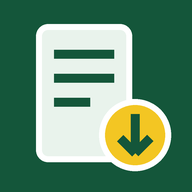
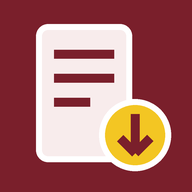
Maroon colour theme
Claude-Session: https://claude.ai/code/session_01WUNYoX9cQFqoFEWwkjiyTj

diff --git a/index.html b/index.html
@@ -5,7 +5,7 @@
 <meta name="viewport" content="width=device-width,initial-scale=1,viewport-fit=cover">
 <title>ต่อรองราคา BOQ</title>
 <meta name="claude:viewport-fit-sides" content="cover">
-<meta name="theme-color" content="#14563a">
+<meta name="theme-color" content="#7a1f2b">
 <link rel="manifest" href="manifest.json">
 <link rel="icon" type="image/png" href="icon-192.png">
 <link rel="apple-touch-icon" href="icon-192.png">
@@ -15,21 +15,21 @@
 <style>
 /* Layout: green government-office header band with tabs, content in a 1240px column; cards for forms, white A4 "paper" for reports */
 :root{
-  --bg:#f2f5f3; --card:#ffffff; --ink:#18291f; --muted:#5f7368; --line:#dbe5df; --soft:#eaf2ed;
-  --brand:#14563a; --brand2:#1f7a50; --brand-ink:#ffffff; --accent:#f3c623; --accent-ink:#3a2f00;
+  --bg:#f6f2f1; --card:#ffffff; --ink:#2a1a1c; --muted:#76615f; --line:#e8dcda; --soft:#f6eaea; --tab-on:#7a1f2b;
+  --brand:#7a1f2b; --brand2:#9a2d3a; --brand-ink:#ffffff; --accent:#f3c623; --accent-ink:#3a2f00;
   --blue:#1b66d1; --danger:#c23b2e; --warn-bg:#fff4cf; --warn-ink:#6d5300; --ok-bg:#e3f4ea; --ok-ink:#17633d; --bad-bg:#fde6e3; --bad-ink:#9d2a1f;
-  --paper:#ffffff; --paper-ink:#000000; --paper-line:#333333; --paper-shade:#e9ece9;
+  --paper:#ffffff; --paper-ink:#000000; --paper-line:#333333; --paper-shade:#ececec;
   --f-head:"Prompt","Sarabun","Leelawadee UI",Tahoma,sans-serif;
   --f-body:"Sarabun","Leelawadee UI","Thonburi",Tahoma,sans-serif;
   --r:12px;
 }
 @media (prefers-color-scheme: dark){:root:not([data-theme="light"]){
-  --bg:#0e1612; --card:#16211b; --ink:#e3ece6; --muted:#97aa9f; --line:#2a3a31; --soft:#1c2c23;
-  --brand:#0f4630; --brand2:#18694a; --accent:#f3c623; --blue:#5b9bf0; --danger:#ef7a6c;
+  --bg:#170f10; --card:#221718; --ink:#efe4e4; --muted:#b39d9d; --line:#3b2a2c; --soft:#2c1d1f; --tab-on:#f2a7b0;
+  --brand:#5e1620; --brand2:#8a2a37; --accent:#f3c623; --blue:#5b9bf0; --danger:#ef7a6c;
   --warn-bg:#3a3110; --warn-ink:#f4dc87; --ok-bg:#163527; --ok-ink:#8fe0b4; --bad-bg:#3d1c18; --bad-ink:#f3a397; color-scheme:dark}}
 :root[data-theme="dark"]{
-  --bg:#0e1612; --card:#16211b; --ink:#e3ece6; --muted:#97aa9f; --line:#2a3a31; --soft:#1c2c23;
-  --brand:#0f4630; --brand2:#18694a; --accent:#f3c623; --blue:#5b9bf0; --danger:#ef7a6c;
+  --bg:#170f10; --card:#221718; --ink:#efe4e4; --muted:#b39d9d; --line:#3b2a2c; --soft:#2c1d1f; --tab-on:#f2a7b0;
+  --brand:#5e1620; --brand2:#8a2a37; --accent:#f3c623; --blue:#5b9bf0; --danger:#ef7a6c;
   --warn-bg:#3a3110; --warn-ink:#f4dc87; --ok-bg:#163527; --ok-ink:#8fe0b4; --bad-bg:#3d1c18; --bad-ink:#f3a397; color-scheme:dark}
 *{box-sizing:border-box}
 html,body{background:var(--bg);color:var(--ink)}
@@ -53,9 +53,9 @@ button,input,select,textarea{font:inherit;color:inherit}
 .tabs::-webkit-scrollbar{display:none}
 .tab{background:transparent;border:0;color:var(--brand-ink);opacity:.86;padding:10px 16px;border-radius:10px 10px 0 0;font-family:var(--f-head);font-size:15px;white-space:nowrap;cursor:pointer;display:flex;gap:7px;align-items:center}
 .tab:hover{opacity:1;background:rgba(255,255,255,.08)}
-.tab.on{background:var(--bg);color:var(--brand);opacity:1;font-weight:600}
-:root[data-theme="dark"] .tab.on{color:var(--ok-ink)}
-@media (prefers-color-scheme: dark){:root:not([data-theme="light"]) .tab.on{color:var(--ok-ink)}}
+.tab.on{background:var(--bg);color:var(--tab-on);opacity:1;font-weight:600}
+
+
 .tab svg{width:17px;height:17px}
 main{padding-block:20px 40px}
 .view[hidden]{display:none}
@@ -66,14 +66,14 @@ main{padding-block:20px 40px}
 .card-b{padding:16px 18px}
 .step{width:28px;height:28px;border-radius:50%;background:var(--brand);color:#fff;display:inline-grid;place-items:center;font-size:14px;flex:none}
 .btn{border:1px solid var(--line);background:var(--card);border-radius:8px;padding:7px 13px;cursor:pointer;display:inline-flex;align-items:center;gap:6px;font-family:var(--f-head);font-size:14px;white-space:nowrap}
-.btn:hover{border-color:var(--brand2)}
+.btn:hover{border-color:var(--tab-on)}
 .btn.pri{background:var(--brand);border-color:var(--brand);color:#fff}
 .btn.blue{background:var(--blue);border-color:var(--blue);color:#fff}
-.btn.ghost-brand{border-color:var(--brand2);color:var(--brand2)}
+.btn.ghost-brand{border-color:var(--tab-on);color:var(--tab-on)}
 .btn.danger{border-color:var(--danger);color:var(--danger)}
 .btn.sm{padding:4px 9px;font-size:13px}
 .btn:focus-visible,.tab:focus-visible,input:focus-visible,select:focus-visible,textarea:focus-visible{outline:2px solid var(--blue);outline-offset:1px}
-.icon-btn{border:1px solid var(--line);background:var(--card);width:32px;height:30px;border-radius:6px;cursor:pointer;display:inline-grid;place-items:center;color:var(--brand2)}
+.icon-btn{border:1px solid var(--line);background:var(--card);width:32px;height:30px;border-radius:6px;cursor:pointer;display:inline-grid;place-items:center;color:var(--tab-on)}
 .icon-btn.del{color:var(--danger)}
 .icon-btn svg{width:16px;height:16px}
 label.f{display:flex;flex-direction:column;gap:4px;font-size:13px;color:var(--muted);min-width:0}
@@ -124,10 +124,10 @@ table.t tfoot td{font-weight:700;border-top:2px solid var(--line)}
 .sumrow{display:flex;justify-content:space-between;gap:10px;padding:7px 0;border-bottom:1px dashed var(--line);font-size:14px}
 .sumrow b{font-variant-numeric:tabular-nums;white-space:nowrap}
 .big-pct{text-align:center;padding:6px 0 10px}
-.big-pct .v{font-family:var(--f-head);font-size:42px;font-weight:600;color:var(--brand2);line-height:1.1}
+.big-pct .v{font-family:var(--f-head);font-size:42px;font-weight:600;color:var(--tab-on);line-height:1.1}
 .calc3{display:grid;grid-template-columns:repeat(3,minmax(0,1fr));gap:14px}
 @media (max-width:900px){.calc3{grid-template-columns:1fr}}
-.calc3 h3{font-size:15px;color:var(--brand2);padding-bottom:8px;border-bottom:1px solid var(--line);margin-bottom:4px}
+.calc3 h3{font-size:15px;color:var(--tab-on);padding-bottom:8px;border-bottom:1px solid var(--line);margin-bottom:4px}
 .calc3 .tot{font-weight:700;border-top:1px solid var(--ink);border-bottom:3px double var(--ink)}
 .checks{list-style:none;padding:0;margin:0;display:grid;gap:8px}
 .checks li{display:flex;gap:9px;align-items:flex-start;font-size:14px}
@@ -146,7 +146,7 @@ table.t tfoot td{font-weight:700;border-top:2px solid var(--line)}
 .modal-bg{position:fixed;inset:0;background:rgba(0,0,0,.45);display:grid;place-items:center;z-index:40;padding:16px}
 .modal{background:var(--card);border-radius:14px;max-width:760px;width:100%;max-height:90vh;overflow:auto;border:1px solid var(--line)}
 .modal .card-b{display:grid;gap:12px}
-.legal h3{font-size:18px;color:var(--brand2);margin-top:16px}
+.legal h3{font-size:18px;color:var(--tab-on);margin-top:16px}
 .legal blockquote{margin:8px 0;border-left:4px solid var(--brand2);padding:4px 14px}
 .legal p{margin:6px 0}
 .flow{display:grid;gap:8px}
@@ -154,7 +154,7 @@ table.t tfoot td{font-weight:700;border-top:2px solid var(--line)}
 .flow .y{background:var(--warn-bg);color:var(--warn-ink)}.flow .g{background:var(--ok-bg);color:var(--ok-ink)}.flow .r{background:var(--bad-bg);color:var(--bad-ink)}
 .switch{display:inline-flex;align-items:center;gap:7px;cursor:pointer;font-size:14px}
 .seg{display:inline-flex;border:1px solid var(--brand2);border-radius:8px;overflow:hidden;flex-wrap:wrap}
-.seg button{border:0;background:var(--card);padding:7px 12px;cursor:pointer;font-family:var(--f-head);font-size:13.5px;color:var(--brand2)}
+.seg button{border:0;background:var(--card);padding:7px 12px;cursor:pointer;font-family:var(--f-head);font-size:13.5px;color:var(--tab-on)}
 .seg button.on{background:var(--brand);color:#fff}
 /* ===== Paper / reports ===== */
 .paper-wrap{overflow-x:auto;padding-block:16px}
@@ -223,7 +223,7 @@ table.t tfoot td{font-weight:700;border-top:2px solid var(--line)}
   <div class="wrap">
     <div class="hdr">
       <div class="logo" aria-hidden="true">
-        <svg width="34" height="34" viewBox="0 0 64 64"><rect x="12" y="6" width="34" height="46" rx="4" fill="#e9f3ec" stroke="#14563a" stroke-width="3"/><path d="M19 18h20M19 26h20M19 34h12" stroke="#14563a" stroke-width="3" stroke-linecap="round"/><circle cx="45" cy="45" r="13" fill="#f3c623" stroke="#14563a" stroke-width="2.5"/><path d="M45 37v14m-5-5 5 5 5-5" stroke="#14563a" stroke-width="3" fill="none" stroke-linecap="round" stroke-linejoin="round"/></svg>
+        <svg width="34" height="34" viewBox="0 0 64 64"><rect x="12" y="6" width="34" height="46" rx="4" fill="#f8ecec" stroke="#7a1f2b" stroke-width="3"/><path d="M19 18h20M19 26h20M19 34h12" stroke="#7a1f2b" stroke-width="3" stroke-linecap="round"/><circle cx="45" cy="45" r="13" fill="#f3c623" stroke="#7a1f2b" stroke-width="2.5"/><path d="M45 37v14m-5-5 5 5 5-5" stroke="#7a1f2b" stroke-width="3" fill="none" stroke-linecap="round" stroke-linejoin="round"/></svg>
       </div>
       <div class="ttl">
         <h1>ระบบต่อรองและปรับลดราคาในแบบแสดงรายการ ปริมาณงาน และราคา (BOQ)</h1>
@@ -246,7 +246,7 @@ table.t tfoot td{font-weight:700;border-top:2px solid var(--line)}
   <section class="view" id="v-report" hidden></section>
   <section class="view" id="v-legal" hidden></section>
   <section class="view" id="v-set" hidden></section>
-  <div class="foot no-print">ข้อมูลทั้งหมดเก็บไว้ในเบราว์เซอร์ของเครื่องนี้ · ควรสำรองข้อมูลเป็นไฟล์เป็นระยะจากหน้า "ตั้งค่า" · เวอร์ชัน 17 ต.ค. 2569 (10)</div>
+  <div class="foot no-print">ข้อมูลทั้งหมดเก็บไว้ในเบราว์เซอร์ของเครื่องนี้ · ควรสำรองข้อมูลเป็นไฟล์เป็นระยะจากหน้า "ตั้งค่า" · เวอร์ชัน 17 ต.ค. 2569 (11)</div>
 </main>
 <div class="toast" id="toast" role="status"></div>
 <div id="modalRoot"></div>
@@ -742,7 +742,7 @@ function tryOut(p,price){const box=$('#tryOut');const r=compute(p,price);const o
   box.innerHTML=`<div class="grid g12" style="margin-bottom:10px">
      <div class="s4"><div class="muted" style="font-size:13px">ลดลงจากราคาเสนอ</div><div style="font-family:var(--f-head);font-size:19px;font-weight:600" class="num">${fmt(o-r.T/100)} <span class="muted" style="font-size:13px">(${o?fmt((o-r.T/100)/o*100):'0.00'}%)</span></div></div>
      <div class="s4"><div class="muted" style="font-size:13px">ต่ำกว่าราคากลาง</div><div style="font-family:var(--f-head);font-size:19px;font-weight:600" class="num">${fS(r.sumM-r.T)}</div></div>
-     <div class="s4"><div class="muted" style="font-size:13px">อัตราร้อยละที่ปรับลด (3)÷(1)</div><div style="font-family:var(--f-head);font-size:19px;font-weight:600;color:var(--brand2)" class="num">${fmt(r.pct)}</div></div></div>
+     <div class="s4"><div class="muted" style="font-size:13px">อัตราร้อยละที่ปรับลด (3)÷(1)</div><div style="font-family:var(--f-head);font-size:19px;font-weight:600;color:var(--tab-on)" class="num">${fmt(r.pct)}</div></div></div>
    ${sug}
    <div class="row" style="margin-top:10px"><button class="btn pri" id="saveRound" type="button">บันทึกเป็นการต่อรองครั้งใหม่</button><span class="muted" style="font-size:13px">จะใช้ราคา ${fS(r.T)} บาท</span></div>`;
   $$('[data-pick]',box).forEach(b=>b.onclick=()=>{$('#tryP').value=fmt(+b.dataset.pick/100);$('#v-nego')._try=$('#tryP').value;tryOut(p,+b.dataset.pick/100)});
@@ -912,7 +912,7 @@ function repContract(p,r,b){
 
 /* ================= legal ================= */
 function rLegal(){$('#v-legal').innerHTML=`<div class="two"><div class="card card-b legal" style="min-width:0">
-  <h2 style="font-size:22px;color:var(--brand2)">สาระสำคัญและหลักการคำนวณ</h2>
+  <h2 style="font-size:22px;color:var(--tab-on)">สาระสำคัญและหลักการคำนวณ</h2>
   <p class="muted">หนังสือคณะกรรมการวินิจฉัยปัญหาการจัดซื้อจัดจ้างและการบริหารพัสดุภาครัฐ (กวจ.) ด่วนที่สุด ที่ กค (กวจ) 0405.3/ว 651 ลงวันที่ 26 กันยายน 2568 เรื่อง แนวทางการปรับลดราคาในแบบแสดงรายการ ปริมาณงาน และราคา (ยกเลิกหนังสือ ที่ กค (กวจ) 0405.3/ว 232 ลงวันที่ 8 เมษายน 2568) · ใช้สรุปนี้ประกอบการทำงานเท่านั้น ให้ยึดตัวหนังสือฉบับจริง</p>
   <h3>1. ขอบเขต (ข้อ 1.1)</h3><blockquote>ใช้กับงานจ้างก่อสร้างที่หน่วยงานของรัฐจัดทำแบบรูปรายการงานก่อสร้างโดยถูกต้อง</blockquote>
   <h3>2. การยื่นข้อเสนอ (ข้อ 1.2.1)</h3><blockquote>ผู้ยื่นข้อเสนอกรอกใบเสนอราคาโดยไม่ต้องยื่น BOQ เป็นไฟล์ PDF</blockquote>

diff --git a/sw.js b/sw.js
@@ -1,4 +1,4 @@
-const CACHE='boq-nego-v10';
+const CACHE='boq-nego-v11';
 const SHELL=['./','./index.html','./manifest.json','./icon-192.png','./icon-512.png'];
 self.addEventListener('install',e=>{e.waitUntil(caches.open(CACHE).then(c=>c.addAll(SHELL.map(u=>new Request(u,{cache:'reload'})))).then(()=>self.skipWaiting()))});
 self.addEventListener('activate',e=>{e.waitUntil(caches.keys().then(ks=>Promise.all(ks.filter(k=>k!==CACHE).map(k=>caches.delete(k)))).then(()=>self.clients.claim()))});
